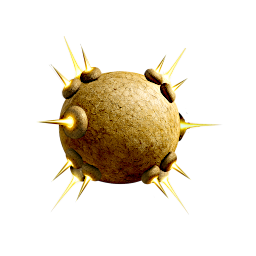
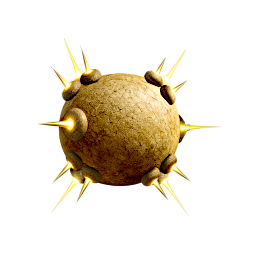
Merge pull request #2279 from melkorium/master
Late patch

Pull request: Late patch

diff --git a/source/public/client/UI/reactJs/UI.bundle.js b/source/public/client/UI/reactJs/UI.bundle.js
@@ -341,7 +341,7 @@ See https://styled-components.com/docs/faqs#why-am-i-getting-a-warning-about-sev
         opacity: 2;
         color: #deebff;
     }
-`,ze={colors:{windowBg:"#152029de",panelBg:"#04161c",panelBgGlass:"rgba(4, 22, 28, 0.22)",line:"#496791",text:"#ffffff",textAccent:"#C6E2FF",healthOk:"#427231",healthCrit:"#ed6738",warning:"#e1b000",statusOk:"limegreen",statusAlert:"#e1b000",enhText:"#d8be86"},fonts:{body:"arial",mono:'Consolas, "Lucida Console", monospace'}};class Ci extends yt.Component{render(){return x.jsxs(ED,{children:[x.jsx(TD,{children:this.props.label}),x.jsx(kD,{type:this.props.type||"text",value:this.props.value,placeholder:this.props.placeholder,onKeyDown:this.props.onKeydown,onChange:this.props.onChange,tabIndex:"0"})]})}}const ED=O.div`
+`,ze={colors:{windowBg:"#152029de",panelBg:"#04161c",panelBgGlass:"rgba(4, 22, 28, 0.22)",line:"#496791",text:"#ffffff",textAccent:"#C6E2FF",healthOk:"#427231",healthCrit:"#ed6738",warning:"#e1b000",statusOk:"limegreen",statusAlert:"#e1b000",enhText:"#d8be86",custom:"#cccc00"},fonts:{body:"arial",mono:'Consolas, "Lucida Console", monospace'}};class Ci extends yt.Component{render(){return x.jsxs(ED,{children:[x.jsx(TD,{children:this.props.label}),x.jsx(kD,{type:this.props.type||"text",value:this.props.value,placeholder:this.props.placeholder,onKeyDown:this.props.onKeydown,onChange:this.props.onChange,tabIndex:"0"})]})}}const ED=O.div`
     width: 100%;
     box-sizing: border-box; /* keep the 14px side padding inside 100% so the row
                                never exceeds the Body width (no h-scrollbar) */
@@ -2695,8 +2695,8 @@ See https://styled-components.com/docs/faqs#why-am-i-getting-a-warning-about-sev
 `,gA=O.div`
     padding: 1px 0;
     font-weight: bold;
-    font-style: italic;
-    color: ${ze.colors.warning};
+    /*font-style: italic;*/
+    color: ${ze.colors.custom};
 `,qi=O.div`
     display: flex;
     align-items: baseline;

diff --git a/source/public/client/UI/reactJs/shipWindow/ShipNotesPanel.js b/source/public/client/UI/reactJs/shipWindow/ShipNotesPanel.js
@@ -90,8 +90,8 @@ const Row = styled.div`
 const CustomFlag = styled.div`
     padding: 1px 0;
     font-weight: bold;
-    font-style: italic;
-    color: ${theme.colors.warning};
+    /*font-style: italic;*/
+    color: ${theme.colors.custom};
 `;
 
 /*stat rows read like the Notes lines (feedback round 3): 10px, sentence-case

diff --git a/source/public/client/UI/reactJs/styled/theme.js b/source/public/client/UI/reactJs/styled/theme.js
@@ -18,6 +18,7 @@ const theme = {
         statusOk: "limegreen",                  //green status banners - matches the map tooltip (Undetected / Attached)
         statusAlert: "#e1b000",                  //orange alert banners - matches the map tooltip (boarding)
         enhText: "#d8be86",                     //Enhancements list body text - gold, matches the block's bronze border/title
+        custom: "#cccc00",    
     },
     fonts: {
         body: "arial",

diff --git a/source/public/faq.php b/source/public/faq.php
@@ -268,18 +268,18 @@ if (!isset($_SESSION["user"]) || $_SESSION["user"] == false) {
                 <ul class="circle-list">
                     <li>You must be a member of the <a href="https://discord.gg/4jXarWusp4" target="_blank" rel="noopener noreferrer">Fiery Void Discord server</a>.  Discord only lets a bot message people who share a server with it.</li>
                     <li>You must allow DMs from that server: right-click the Fiery Void server icon &rarr; <b>Privacy Settings</b> &rarr; turn on <b>Allow direct messages from server members</b>.</li>
-                    <li>Don't be alarmed that the bot always shows as <i>offline</i> in the member list — that is normal.  It only sends messages; it never logs in or reads your chat.</li>
+                    <li>Don't worry that the bot always shows as <i>offline</i> in the member list — that is normal.  It only sends messages; it never logs in or reads your chat.</li>
                 </ul>
             </li>
             <br>
 
             <li><b>Setting it up (a one-off, takes a minute):</b>
                 <ul class="circle-list">
-                    <li><b>1. Find your Discord user ID.</b> In Discord go to <b>Settings &rarr; Advanced</b> and turn on <b>Developer Mode</b>.  Then click your own name (in a chat or the member list) and choose <b>Copy User ID</b>.  This is a long number of 17&ndash;20 digits — it is <em>not</em> your username.</li>
-                    <li><b>2. Paste it into Fiery Void.</b> From the Game Lobby click <b>Set-Up Turn Notifications</b>, paste the number into the box, and click <b>Send verification code</b>.</li>
+                    <li><b>1. Find your Discord user ID.</b> In Discord go to <b>User Settings &rarr; Advanced</b> and turn on <b>Developer Mode</b>.  Then right-click your own name (in a chat or the member list) and choose <b>Copy User ID</b>.  This is a long number of 17&ndash;20 digits — it is <em>not</em> your username.</li>
+                    <li><b>2. Paste it into Fiery Void.</b> From the FV Main Page click, <b>Set-Up Discord Notifications</b> in the top-right corner, paste your Discord User ID into the box, and click <b>Send verification code</b>.</li>
                     <li><b>3. Check your Discord DMs.</b> The Fiery Void bot will message you a <b>6-digit code</b>, valid for <b>10 minutes</b>.</li>
                     <li><b>4. Enter that code</b> back on the notifications page and click <b>Verify</b>.  You're linked.</li>
-                    <li><b>5. Optionally click Send test ping</b> to prove a DM reaches you.</li>
+                    <li><b>5. Optionally you can then click 'Send test ping'</b> to prove a DM reaches you.</li>
                 </ul>
             </li>
             <br>

diff --git a/source/server/model/weapons/supportWeapons.php b/source/server/model/weapons/supportWeapons.php
@@ -1436,8 +1436,8 @@ class GraviticAugmenter extends Weapon  implements SpecialAbility{
     public function setSystemDataWindow($turn){
         parent::setSystemDataWindow($turn);
 		$this->data["Special"] = "May use one of the three Firing modes listed below per turn:";
-		$this->data["Special"] .= "<br> - Matter Weapon Enhancement (Initial Orders): Boosts fire control of friendly matter weapons in arc/range by +3, and of ALL friendly ballistic weapons by +6; degrades enemy matter/ballistic weapons by the same amount. Cumulative.";
-		$this->data["Special"] .= "<br> - Warrior Enhancement (Initial Orders): Grants a Warrior flight +3 free thrust, +3 offensive bonus, -4 dropout, and 3 free jink levels. Not cumulative.";
+		$this->data["Special"] .= "<br> - Matter Weapon Enhancement (Initial Orders): Boosts fire control of friendly matter weapons in arc/range by +15%, and of ALL friendly ballistic weapons by +30%; degrades enemy matter/ballistic weapons by the same amount. Cumulative.";
+		$this->data["Special"] .= "<br> - Warrior Enhancement (Initial Orders): Grants a Warrior flight +3 free thrust, +15 offensive bonus, -4 dropout, and 3 free jink levels. Not cumulative.";
 		$this->data["Special"] .= "<br> - Gravity Shifting (Pre-Firing): Rotates a target ship's facing up to 120 degrees (60 degrees max against Gravtiic targets). Only ONE Augmenter may shift a given ship per turn. No effect on Enormous units or Mines.";
 		if ($this->linkedOrbital !== null){
 			$this->data["Special"] .= "<br>Mounted on " . $this->linkedOrbital->displayName . ": cannot be targeted by called shots; overkill passes to the Orbital.";

diff --git a/source/public/games.php b/source/public/games.php
@@ -139,7 +139,7 @@ $defaultGameName = ucfirst($playerName) . "'s Game";
         <!--<li style="color: #cc0000ff;"><strong>Merry Christmas from Fiery Void!</strong></li>-->    
         <li><strong>KIRISHIAC LORDS</strong> - A brand-new Ancient faction has been added to Fiery Void!</li>  
         <li><strong>Ship Window Revamp</strong> - Ship windows (SCS) have been updated in Game and Fleet Selection screens to improve appearance and functionality.</li> 
-        <li><strong>Discord Notifications</strong> - You can now add your Discord account details in 'Set-Up Discord Notifications' to get a message when it's your turn.  See <a href="./faq.php" target="_blank" rel="noopener noreferrer">Fiery Void FAQ:</a> for details.</li>           
+        <li><strong>Discord Notifications</strong> - You can now add your Discord account details in 'Set-Up Discord Notifications' to get a message when it's your turn. See Fiery Void FAQ for details!</li>           
         <li><strong>Civilians and Raiders</strong> - A plethora of official and custom Civilian ships added for a huge number of factions (thanks to Lunara).</li>          
         <li><strong>Sh'lassan and Mentaban</strong> - Added these two Small Race factions which utilise exported EA hulls (thanks to Lunara).</li>                                                              
         <li><strong>General Fixes</strong> - Many other small bug fixes/updates. Thanks for the reports!</li>           

diff --git a/source/server/model/weapons/torpedo.php b/source/server/model/weapons/torpedo.php
@@ -397,6 +397,7 @@
 			//parent (BallisticTorpedo) already appends the Saturation-Mode + fighter-targeting lines;
 			//only add the paired-Orbital specifics here.
 			parent::setSystemDataWindow($turn);
+				$this->data["Special"] .= "<br>Ignores damage reduction effects of non-Ancient shields, and each torpedo hit reduces any shields damage reduction by 1d10.";			
 			if ($this->linkedOrbital !== null){
 				$this->data["Special"] .= "<br>Mounted on " . $this->linkedOrbital->displayName . ": cannot be targeted by called shots; overkill passes to the Orbital.";
 				if ($this->stowedArcStart !== null){